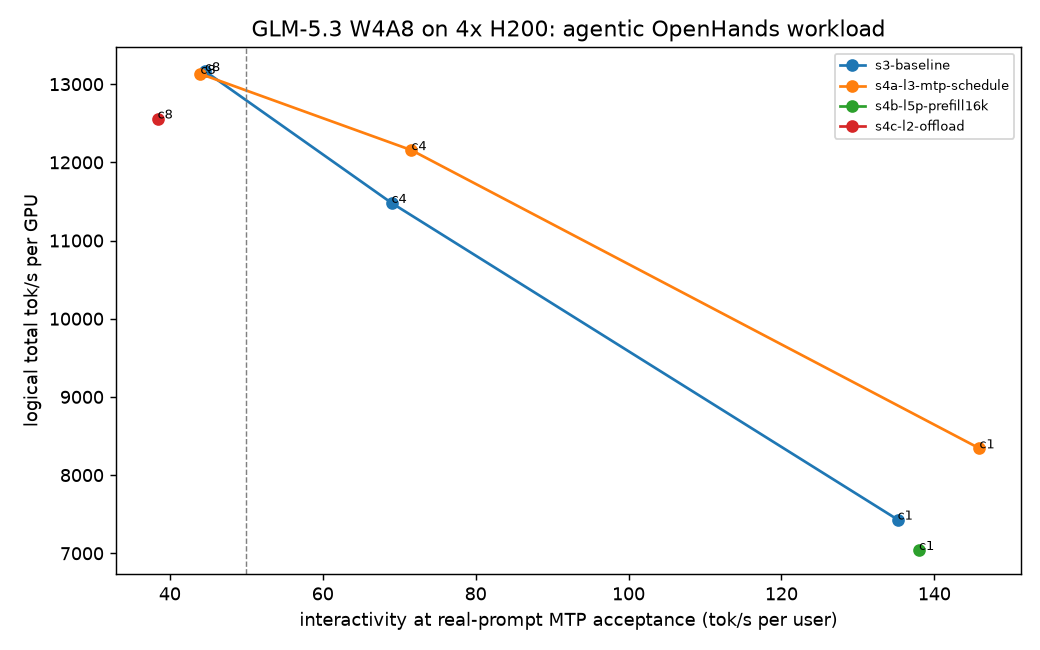
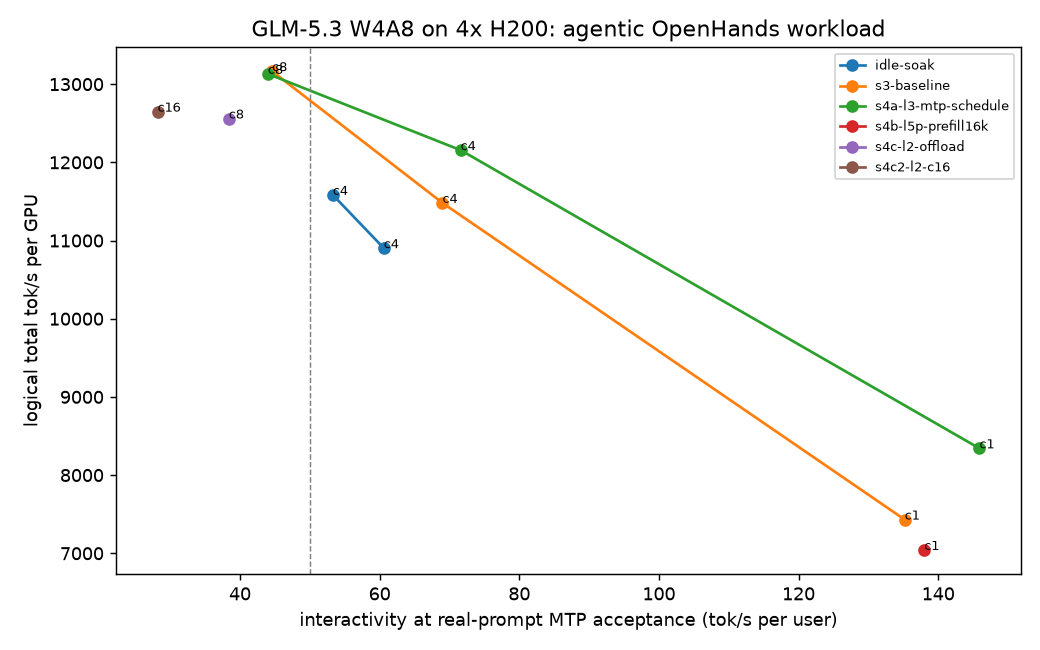
Rung L2 kept (no collapse at c=16: 16/16 conversations, 91% hit from host memory); prefill profile: 36% FlashMLA sparse decode kernel, 26% collectives, 7% W4A8 MoE

diff --git a/results/FINDINGS.md b/results/FINDINGS.md
@@ -231,3 +231,55 @@ Random token IDs give MTP almost nothing to predict (acceptance length 1.37-1.40
 - **The opposite direction is the one worth a rung:** 4K chunks would roughly halve each stall, return about 1 GiB per GPU to KV, and should cost only a few percent of prefill speed.
 
 **Decision: revert** (the plan's rule: the spot gate failed). The best config stays B4 + L3.
+
+## Step 4, rung L2: CPU KV offload on B4 + L3 (22:12-22:37Z): KEPT
+
+**Config:** `deploy/configs/L2-offload300.args`, which is B4 + L3 + `--kv-offloading-size 300 --kv-offloading-backend native`, plus an inert `--profiler-config`.
+- **GPU KV is unchanged** at 965,376 tokens; the CPU tier uses only host RAM.
+- **Restart to ready takes 357 s**, 60 s more than L3, for pinning 300 GiB of host memory.
+- **The spot gate passed:** tool calls 48/48, the 128K needle, GSM8K-200.
+- **The tier is write-through:** every computed block is copied to host memory, about 3.1 GB per 10 s in about 0.17 s of transfer time.
+
+| | c=8 (fits in GPU KV) | c=16 (1.36M-token working set) |
+|---|---|---|
+| B4 / L3 without offload | 208 turns; prefix hit 91.8% (all GPU) | **collapse:** 0 of the first 16 conversations finished in about 20 min; hit fell from 91.8% to 71% |
+| L2 | 208 turns; prefix hit 91.5% (all GPU) | **16 of 16 conversations (208 turns) in 5.5 min, 0 failures; hit 91.3%, served 91.25% from host memory and 0.5% from GPU** |
+| Overhead vs L3 | median TPOT 17.75 to 20.23 ms; logical throughput 13,131 to 12,560 tok/s per GPU (-4.3%); ITL p50 unchanged (44 ms) | n/a |
+
+**Why GPU hits drop to 0.5% at c=16:**
+- LRU caches fail on a cyclic working set larger than the cache: each waiting session's blocks are evicted just before its next turn.
+- The 300 GiB host tier holds about 5.5M tokens, so every one of those misses becomes a reload over PCIe instead of a recompute. An 85K-token history is about 4.4 GB, so it reloads in a fraction of a second, against about 13 s of prefill.
+- c=16 is still far past the SLO (TTFT p50 3.9 s, mean TPOT 51 ms, 12,648 logical tok/s per GPU, which is prefill-saturated like c=8), but the engine degrades gracefully instead of collapsing.
+
+**Decision: keep.**
+- **The generic keep rule does not apply:** max sessions at SLO is unchanged and c=1 was not re-measured.
+- **The plan's L2 test does:** "prefixes survive concurrency beyond HBM; test it past the cliff". That test is decisive.
+- **Why it matters for long-running hosting:** the KV working set is every recently active session's history, not just the running ones. Without the tier, a returning user costs a 13 s cold prefill that also stalls everyone else.
+- **The cost:** about 4% of throughput where offload is not needed, and 60 s on restart.
+
+## Prefill profile (one cold 26,228-token prompt, B4 + L3 + L2; `s4c-l2-offload/profile/`)
+
+The prompt took 4.71 s, which is 5.57K tok/s: three 8K chunks at about 830 ms of GPU time each, plus a remainder. The CUDA time on each rank is nearly identical:
+
+| Kernel | Share of 4.57 s CUDA time |
+|---|---|
+| `_flashmla_C::sparse_decode_fwd` (FlashMLA **sparse decode**, split-KV, SM90) | **36%** |
+| DCP and TP collectives: `all_gather` 9.4%, `all_reduce` 6.7%, DCP `all_to_all` 6.3%, pack/unpack 3.4% | **about 26%** |
+| `cutlass_w4a8_moe_mm` (all routed experts) | **7.0%** |
+| DeepGEMM FP8 (indexer and projections) | 4.5% |
+| copies, `masked_fill`, elementwise, quantization | about 15% |
+
+**Prefill is not MoE-bound; it is attention-path bound.** vLLM's FlashMLA-sparse backend has two FP8 modes (`flashmla_sparse.py`):
+- **Mixed batch (the one in use):** every token, prefill included, goes through the FP8 *decode* kernel.
+- **Separate:** KV is upconverted to BF16 and run through the sparse *prefill* kernel.
+
+**Why this deployment cannot leave mixed-batch mode:**
+- **TP4 forces it:** each rank has only 16 heads, below `MIN_HEADS_FOR_BF16_PREFILL = 32`, because the prefill kernel pads to 128 heads.
+- **DCP requires it:** DCP is only supported on the mixed-batch path, since the DCP merge needs the LSE for every token. The one exception is PCP+DCP.
+- **PCP does not fit here:** it means TP2 x PCP2, which doubles each GPU's attention and dense weights (about 8 GiB more per GPU) and leaves almost no KV.
+- **HiSparse (plan rung L5) is ruled out the same way:** it disables mixed-batch mode, so it raises `NotImplementedError` with DCP, and without DCP the KV is replicated (B0: about 131K tokens).
+
+**Implications:**
+1. On 4x H200 with W4A8, prefill speed (about 5.6K tok/s) is set by this kernel mismatch and by DCP collectives, so it is structural.
+2. On 8x H200 with FP8 and TP8, each rank has 8 heads, so it is still mixed-batch. The fast prefill path needs 32 or more heads per rank, i.e. TP2 or DP attention.
+3. The cheap lever is `--dcp-q-replicate`: replicate the query projection so each step skips the query all-gather (the largest collective here, 9.4%). It costs about 2 GiB of weights per GPU, which is affordable only if DSpark frees the MTP layer's 12.64 GiB.

diff --git a/results/REPORT_DATA.md b/results/REPORT_DATA.md
@@ -8,6 +8,8 @@ interactivity is the raw 1000/TPOT p50 (per-request median); step_ms = TPOT p50 
 |---|---|---|---|---|---|---|---|---|---|---|---|---|---|---|---|---|---|---|---|---|---|---|---|
 | r01-rehearsal | 1 | 12 | 0 | 92.64 | 211.63 | 211.84 | 4.58 | 4.58 | 4.62 | 5.19 | 218.3 |  |  | 218.3 | 218.3 | 194.3204 | 1481 | 0.6494 |  | 0.0 | True | 21.16 | 30.25 |
 | r01-rehearsal | 4 | 24 | 0 | 190.03 | 548.86 | 670.86 | 8.64 | 8.71 | 8.46 | 17.11 | 115.7 |  |  | 115.7 | 114.8 | 404.3194 | 3082 | 0.6496 |  | 0.0 | True | 5.29 | 14.54 |
+| idle-soak | 4 | 104 | 0 | 554.51 | 13171.22 | 39558.32 | 10.69 | 18.73 | 39.67 | 1420.95 | 93.5 | 55.4 | 2.95 | 53.3 | 30.4 | 127.6516 | 11583 | 0.9143 | 5.178 | 0.0 | True | 5.29 | 46.05 |
+| idle-soak | 4 | 104 | 0 | 545.11 | 9071.72 | 39469.17 | 10.65 | 19.46 | 39.54 | 1418.65 | 93.9 | 48.7 | 2.95 | 60.6 | 33.2 | 120.3643 | 10902 | 0.9144 | 4.572 | 0.0 | True | 5.29 | 48.83 |
 | s3-baseline | 1 | 52 | 0 | 428.59 | 484.84 | 12910.29 | 5.74 | 5.93 | 23.11 | 29.25 | 174.2 | 21.8 | 2.95 | 135.2 | 130.8 | 81.6755 | 7431 | 0.9175 | 3.802 | 0.0 | True | 21.16 | 71.97 |
 | s3-baseline | 4 | 104 | 0 | 503.65 | 745.37 | 39379.9 | 11.4 | 19.92 | 33.68 | 1412.99 | 87.7 | 42.8 | 2.95 | 69.0 | 39.5 | 126.3797 | 11481 | 0.9176 | 3.752 | 0.0 | True | 5.29 | 46.51 |
 | s3-baseline | 8 | 208 | 0 | 576.89 | 1108.0 | 77281.53 | 17.51 | 38.57 | 43.21 | 1421.22 | 57.1 | 66.2 | 2.95 | 44.6 | 20.2 | 144.9076 | 13166 | 0.9176 | 3.78 | 0.0 | False |  | 40.56 |
@@ -16,11 +18,13 @@ interactivity is the raw 1000/TPOT p50 (per-request median); step_ms = TPOT p50 
 | s4a-l3-mtp-schedule | 8 | 208 | 0 | 573.46 | 1411.02 | 77454.93 | 17.75 | 37.92 | 43.97 | 1423.85 | 56.3 | 67.0 | 2.95 | 44.0 | 20.6 | 144.5272 | 13131 | 0.9176 | 3.777 | 0.0 | False |  | 40.67 |
 | s4b-l5p-prefill16k | 1 | 52 | 0 | 421.95 | 500.39 | 12604.71 | 6.1 | 6.72 | 23.94 | 24.93 | 163.9 | 21.4 | 2.95 | 138.0 | 125.3 | 77.4986 | 7042 | 0.9174 | 3.503 | 0.0 | True | 21.16 | 75.84 |
 | s4c-l2-offload | 8 | 208 | 0 | 613.52 | 1378.03 | 77700.76 | 20.23 | 39.52 | 44.06 | 1429.1 | 49.4 | 76.9 | 2.95 | 38.4 | 19.6 | 138.1952 | 12560 | 0.9146 | 3.799 | 0.0 | False |  | 42.53 |
+| s4c2-l2-c16 | 16 | 208 | 0 | 3949.56 | 26910.17 | 180351.55 | 28.3 | 51.42 | 51.95 | 1427.84 | 35.3 | 104.7 | 2.95 | 28.2 | 15.5 | 139.2877 | 12648 | 0.0051 | 3.701 | 0.0 | False |  | 42.2 |
 
 ## Max sessions at SLO per step
 | step | max_sessions_at_slo | usd_per_session_hr |
 |---|---|---|
 | r01-rehearsal | 4 | 5.29 |
+| idle-soak | 4 | 5.29 |
 | s3-baseline | 4 | 5.29 |
 | s4a-l3-mtp-schedule | 4 | 5.29 |
 | s4b-l5p-prefill16k | 1 | 21.16 |

diff --git a/results/budget.md b/results/budget.md
@@ -7,3 +7,4 @@
 | 2026-11-08T19:19Z | main pod fbsy2njw0xt5mp created (4x H200 SXM, EUR-IS-5) | - | - | $21.16/hr; deadline 9.1 h |
 | 2026-11-08T20:36Z | Step 1 done (B4 serving) | $173.226279286 (runpodctl user) | ~1.3 | config debugging B0-B3 cost ~35 min |
 | 2026-11-08T21:30Z | Step 3 done (baseline + reference shapes) | $153.7645384526 (runpodctl user) | ~2.2 | c=16 stopped early (collapse) |
+| 2026-11-08T22:15Z | L3 kept, L5p reverted, L2 running | $137.8303456525 (runpodctl user) | ~2.9 | |
